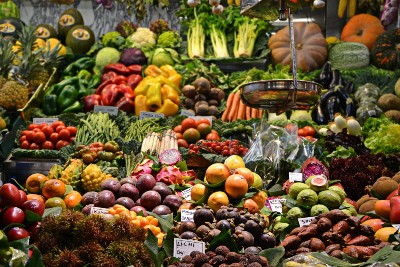
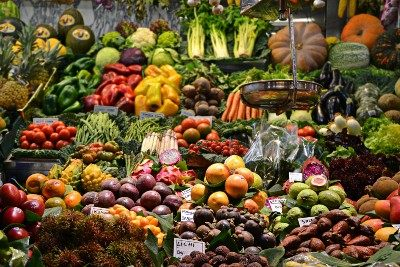
Fix SEO audit issues, optimize images, add structured data and related posts.

diff --git a/_layouts/post.html b/_layouts/post.html
@@ -3,6 +3,18 @@ layout: default
 ---
 
 <article class="post">
+  <script type="application/ld+json">
+  {
+    "@context": "https://schema.org",
+    "@type": "BreadcrumbList",
+    "itemListElement": [
+      { "@type": "ListItem", "position": 1, "name": "Accueil", "item": "{{ '/' | absolute_url }}" },
+      { "@type": "ListItem", "position": 2, "name": "Articles", "item": "{{ '/articles/' | absolute_url }}" },
+      { "@type": "ListItem", "position": 3, "name": {{ page.title | jsonify }} }
+    ]
+  }
+  </script>
+
   <header class="post-header">
     <div class="container">
       <h1>{{ page.title }}</h1>
@@ -25,12 +37,32 @@ layout: default
     <div class="container">
       <div class="post-cta" style="position: relative;">
         <div class="cactus-deco" style="position: absolute; right: 1rem; top: -20px; opacity: 0.6;">
-          <img src="/assets/images/cactus{{ page.date | date: '%d' | modulo: 8 | plus: 1 }}.png" alt="" style="width: 70px;">
+          <img src="/assets/images/cactus{{ page.date | date: '%d' | modulo: 8 | plus: 1 }}.png" alt="Cactus décoratif" style="width: 70px;" loading="lazy">
         </div>
         <h3>Vous avez des questions?</h3>
         <p>Prenez rendez-vous pour une consultation personnalisée.</p>
         <a href="/reservation-en-ligne/" class="btn btn-primary">Prendre rendez-vous</a>
       </div>
+
+      {% assign related_posts = site.posts | where_exp: "p", "p.url != page.url" %}
+      {% if related_posts.size > 0 %}
+      <div class="related-posts">
+        <h2>À lire aussi</h2>
+        <div class="blog-grid">
+          {% for p in related_posts limit: 3 %}
+          <article class="blog-card">
+            <a href="{{ p.url }}">
+              <div class="blog-card-content">
+                <time class="blog-card-date">{% include date-fr.html date=p.date %}</time>
+                <h3 class="blog-card-title">{{ p.title }}</h3>
+                <p class="blog-card-excerpt">{{ p.excerpt | strip_html | truncate: 120 }}</p>
+              </div>
+            </a>
+          </article>
+          {% endfor %}
+        </div>
+      </div>
+      {% endif %}
 
       <nav class="post-nav">
         {% if page.previous.url %}

diff --git a/les-bienfaits-de-lacupuncture.html b/les-bienfaits-de-lacupuncture.html
@@ -2,7 +2,7 @@
 layout: default
 title: Les bienfaits de l'acupuncture
 image: /assets/images/logo_sun.png
-last_modified_at: 2026-03-04
+last_modified_at: 2026-07-16
 description: Découvrez les nombreuses conditions que l'acupuncture peut traiter - douleurs, stress, allergies, troubles digestifs, problèmes de peau, et plus encore.
 permalink: /les-bienfaits-de-lacupuncture/
 redirect_from:
@@ -15,10 +15,10 @@ redirect_from:
       <div class="page-header-text">
         <h1>Les bienfaits de l'acupuncture</h1>
         <p class="subtitle">Une médecine préventive, thérapeutique et globale</p>
-        <img src="/assets/images/cactus4.png" alt="" class="page-header-cactus-mobile">
+        <img src="/assets/images/cactus4.png" alt="Cactus décoratif" class="page-header-cactus-mobile" width="249" height="348">
       </div>
       <div class="page-header-visual">
-        <img src="/assets/images/cactus4.png" alt="">
+        <img src="/assets/images/cactus4.png" alt="Cactus décoratif" width="249" height="348">
       </div>
     </div>
   </div>
@@ -169,7 +169,7 @@ redirect_from:
           <p>Les traitements stimulent la circulation du Qi (énergie vitale) à travers les méridiens du corps à l'aide de fines aiguilles stériles à usage unique.</p>
         </div>
         <div class="text-center">
-          <img src="/assets/images/cactus5.png" alt="" style="max-width: 150px; opacity: 0.9; margin: 0 auto;">
+          <img src="/assets/images/cactus5.png" alt="Cactus décoratif" style="max-width: 150px; opacity: 0.9; margin: 0 auto;" width="284" height="380" loading="lazy">
         </div>
       </div>
     </div>

diff --git a/votre-acupuncteure.html b/votre-acupuncteure.html
@@ -1,10 +1,22 @@
 ---
 layout: default
-title: Votre acupuncteure - Janie Couture, Ac.
+title: Votre acupuncteure
 image: /assets/images/janie-couture.jpg
-last_modified_at: 2026-03-04
-description: Janie Couture, acupuncteure membre de l'Ordre des acupuncteurs du Québec. Formation continue et expertise en douleurs musculosquelettiques et troubles internes.
+last_modified_at: 2026-07-16
+description: Janie Couture, acupuncteure membre de l'Ordre des acupuncteurs du Québec. Expertise en douleurs musculosquelettiques et troubles internes.
 permalink: /votre-acupuncteure/
+schema:
+  "@context": https://schema.org
+  "@type": Person
+  name: Janie Couture
+  jobTitle: Acupuncteure
+  url: https://acujanie.com/votre-acupuncteure/
+  image: https://acujanie.com/assets/images/janie-couture.jpg
+  worksFor:
+    "@id": https://acujanie.com/#business
+  memberOf:
+    "@type": Organization
+    name: Ordre des acupuncteurs du Québec
 ---
 
 <header class="page-header">
@@ -13,10 +25,10 @@ permalink: /votre-acupuncteure/
       <div class="page-header-text">
         <h1>Votre acupuncteure</h1>
         <p class="subtitle">Janie Couture, Ac.</p>
-        <img src="/assets/images/cactus8.png" alt="" class="page-header-cactus-mobile">
+        <img src="/assets/images/cactus8.png" alt="Cactus décoratif" class="page-header-cactus-mobile" width="258" height="401">
       </div>
       <div class="page-header-visual">
-        <img src="/assets/images/cactus8.png" alt="">
+        <img src="/assets/images/cactus8.png" alt="Cactus décoratif" width="258" height="401">
       </div>
     </div>
   </div>

diff --git a/index.html b/index.html
@@ -2,7 +2,7 @@
 layout: default
 title: Clinique d'acupuncture à Québec
 image: /assets/images/logo_sun.png
-last_modified_at: 2026-03-04
+last_modified_at: 2026-07-16
 description: Clinique d'acupuncture à Québec, Charlesbourg-Beauport. Traitements pour douleurs, stress, allergies, fertilité, grossesse et plus. Janie Couture, Ac.
 ---
 
@@ -16,10 +16,10 @@ description: Clinique d'acupuncture à Québec, Charlesbourg-Beauport. Traitemen
           <a href="/reservation-en-ligne/" class="btn btn-primary">Prendre rendez-vous</a>
           <a href="/les-bienfaits-de-lacupuncture/" class="btn btn-secondary">Découvrir les bienfaits</a>
         </div>
-        <img src="/assets/images/cactus1.png" alt="" class="hero-cactus-mobile">
+        <img src="/assets/images/cactus1.png" alt="Cactus décoratif" class="hero-cactus-mobile" width="247" height="356">
       </div>
       <div class="hero-visual">
-        <img src="/assets/images/cactus1.png" alt="" class="hero-cactus">
+        <img src="/assets/images/cactus1.png" alt="Cactus décoratif" class="hero-cactus" width="247" height="356">
       </div>
     </div>
   </div>
@@ -138,7 +138,7 @@ description: Clinique d'acupuncture à Québec, Charlesbourg-Beauport. Traitemen
     </div>
 
     <div class="cactus-deco cactus-float-right cactus-medium" style="margin-top: -2rem;">
-      <img src="/assets/images/cactus2.png" alt="">
+      <img src="/assets/images/cactus2.png" alt="Cactus décoratif" width="259" height="288" loading="lazy">
     </div>
     <div class="blog-grid">
       {% for post in site.posts limit:3 %}

diff --git a/articles.html b/articles.html
@@ -1,8 +1,8 @@
 ---
 layout: default
-title: Articles sur l'acupuncture et la médecine chinoise
+title: Articles sur l'acupuncture
 image: /assets/images/logo_sun.png
-last_modified_at: 2026-03-04
+last_modified_at: 2026-07-16
 description: Articles et conseils sur l'acupuncture, la médecine traditionnelle chinoise, le bien-être et la santé par Janie Couture, acupuncteure à Québec.
 permalink: /articles/
 redirect_from:
@@ -15,10 +15,10 @@ redirect_from:
       <div class="page-header-text">
         <h1>Articles</h1>
         <p class="subtitle">Conseils et informations sur l'acupuncture et la médecine chinoise</p>
-        <img src="/assets/images/cactus7.png" alt="" class="page-header-cactus-mobile">
+        <img src="/assets/images/cactus7.png" alt="Cactus décoratif" class="page-header-cactus-mobile" width="288" height="359">
       </div>
       <div class="page-header-visual">
-        <img src="/assets/images/cactus7.png" alt="">
+        <img src="/assets/images/cactus7.png" alt="Cactus décoratif" width="288" height="359">
       </div>
     </div>
   </div>

diff --git a/reservation-en-ligne.html b/reservation-en-ligne.html
@@ -2,7 +2,7 @@
 layout: default
 title: Réservation en ligne
 image: /assets/images/logo_sun.png
-last_modified_at: 2026-03-04
+last_modified_at: 2026-07-16
 description: Prenez rendez-vous en ligne avec Janie Couture, acupuncteure à Québec. Réservation simple et rapide pour votre consultation d'acupuncture.
 permalink: /reservation-en-ligne/
 ---
@@ -13,10 +13,10 @@ permalink: /reservation-en-ligne/
       <div class="page-header-text">
         <h1>Réservation en ligne</h1>
         <p class="subtitle">Prenez rendez-vous en quelques clics</p>
-        <img src="/assets/images/cactus8.png" alt="" class="page-header-cactus-mobile">
+        <img src="/assets/images/cactus8.png" alt="Cactus décoratif" class="page-header-cactus-mobile" width="258" height="401">
       </div>
       <div class="page-header-visual">
-        <img src="/assets/images/cactus8.png" alt="">
+        <img src="/assets/images/cactus8.png" alt="Cactus décoratif" width="258" height="401">
       </div>
     </div>
   </div>

diff --git a/contact.html b/contact.html
@@ -2,7 +2,7 @@
 layout: default
 title: Contact
 image: /assets/images/logo_sun.png
-last_modified_at: 2026-03-04
+last_modified_at: 2026-07-16
 description: Contactez la clinique d'acupuncture Janie Couture à Québec. Téléphone, courriel, adresse et heures d'ouverture. Charlesbourg-Beauport.
 permalink: /contact/
 redirect_from:
@@ -15,10 +15,10 @@ redirect_from:
       <div class="page-header-text">
         <h1>Contact</h1>
         <p class="subtitle">Nous sommes là pour répondre à vos questions</p>
-        <img src="/assets/images/cactus6.png" alt="" class="page-header-cactus-mobile">
+        <img src="/assets/images/cactus6.png" alt="Cactus décoratif" class="page-header-cactus-mobile" width="269" height="343">
       </div>
       <div class="page-header-visual">
-        <img src="/assets/images/cactus6.png" alt="">
+        <img src="/assets/images/cactus6.png" alt="Cactus décoratif" width="269" height="343">
       </div>
     </div>
   </div>

diff --git a/_layouts/default.html b/_layouts/default.html
@@ -22,8 +22,8 @@
   <link rel="stylesheet" href="{{ '/assets/css/main.css' | relative_url }}">
 
   <!-- Favicons -->
-  <link rel="icon" type="image/png" href="{{ '/assets/images/logo_sun.png' | relative_url }}">
-  <link rel="apple-touch-icon" href="{{ '/assets/images/logo_sun.png' | relative_url }}">
+  <link rel="icon" type="image/png" href="{{ '/assets/images/logo_sun-small.png' | relative_url }}">
+  <link rel="apple-touch-icon" href="{{ '/assets/images/logo_sun-small.png' | relative_url }}">
 
   {% if page.schema %}
   <script type="application/ld+json">

diff --git a/_includes/header.html b/_includes/header.html
@@ -1,7 +1,7 @@
 <header class="site-header">
   <div class="container">
     <a href="/" class="logo" aria-label="Accueil">
-      <img src="/assets/images/logo_sun.png" alt="Acupuncture Janie Couture" width="50" height="50" class="logo-img">
+      <img src="/assets/images/logo_sun-small.png" alt="Acupuncture Janie Couture" width="50" height="50" class="logo-img">
       <span class="logo-text">
         <span class="logo-title">Acupuncture</span>
         <span class="logo-name">Janie Couture</span>

diff --git a/_includes/footer.html b/_includes/footer.html
@@ -3,7 +3,7 @@
     <div class="container">
       <div class="footer-grid">
         <div class="footer-brand">
-          <img src="/assets/images/logo_sun.png" alt="Acupuncture Janie Couture" width="60" height="60">
+          <img src="/assets/images/logo_sun-small.png" alt="Acupuncture Janie Couture" width="60" height="60">
           <div>
             <strong>Acupuncture Janie Couture</strong>
             <p>Membre de l'Ordre des acupuncteurs du Québec</p>

diff --git a/_sass/_pages.scss b/_sass/_pages.scss
@@ -390,6 +390,15 @@
   }
 }
 
+.related-posts {
+  margin-bottom: $spacing-xl;
+
+  h2 {
+    text-align: center;
+    margin-bottom: $spacing-lg;
+  }
+}
+
 // Blog listing
 .blog-grid {
   display: grid;

diff --git a/_posts/2026-04-01-lacupuncture-et-les-allergies-saisonnieres.md b/_posts/2026-04-01-lacupuncture-et-les-allergies-saisonnieres.md
@@ -1,19 +1,19 @@
 ---
 layout: post
-title: "L'acupuncture et les allergies saisonnières"
+title: "Acupuncture et allergies saisonnières"
 date: 2026-04-01
 author: Janie Couture
-description: "L'acupuncture peut diminuer les symptômes des allergies saisonnières et les prévenir. L'OMS la reconnaît pour traiter les troubles respiratoires comme la rhinite allergique."
-image: /assets/images/fleurs-champ.png
+description: "L'acupuncture peut diminuer les symptômes des allergies saisonnières et les prévenir. L'OMS la reconnaît pour traiter les troubles respiratoires."
+image: /assets/images/fleurs-champ.jpg
 excerpt: "Le nez vous coule comme un érable au printemps et les éternuements ne vous laissent aucun répit? L'acupuncture est là pour vous aider à diminuer les symptômes et à les prévenir!"
-last_modified_at: 2026-04-01
+last_modified_at: 2026-07-16
 ---
 
 Le nez vous coule comme un érable au printemps et les éternuements ne vous laissent aucun répit? Aimeriez-vous enfin trouver du soulagement face à vos allergies saisonnières sans avoir recours aux médicaments? L'acupuncture est là pour vous aider à diminuer les symptômes et à les prévenir!
 
 L'OMS (Organisation mondiale de la Santé) classe les allergies saisonnières, ainsi que l'asthme et la sinusite, parmi les troubles du système respiratoire pouvant être traités efficacement par l'acupuncture.
 
-<img src="/assets/images/fleurs-champ.png" alt="Fleurs des champs au printemps" class="img-left">
+<img src="/assets/images/fleurs-champ.jpg" alt="Fleurs des champs au printemps" class="img-left" width="298" height="201">
 
 Une allergie est une réaction excessive du système immunitaire à une substance étrangère (allergène) qui, normalement, n'entraîne pas de trouble chez la plupart des individus. Les principaux allergènes sont : les pollens, l'herbe à poux, la poussière, les acariens, les poils d'animaux et certains produits chimiques. Les allergies peuvent être saisonnières ou persister toute l'année.
 
@@ -21,7 +21,7 @@ Lors d'une rhinite allergique, la personne peut ressentir les symptômes suivant
 
 <div class="clearfix"></div>
 
-<img src="/assets/images/champ-ble.png" alt="Champ de blé sous un ciel bleu" class="img-right">
+<img src="/assets/images/champ-ble.jpg" alt="Champ de blé sous un ciel bleu" class="img-right" width="280" height="212" loading="lazy">
 
 Tiré d'un article sur les allergies saisonnières de l'Association des acupuncteurs du Québec, le paragraphe suivant met en lien l'acupuncture et ses effets sur les allergies.
 
@@ -29,7 +29,7 @@ Aujourd'hui, la science moderne reconnaît que l'acupuncture agit sur les systè
 
 <div class="clearfix"></div>
 
-<img src="/assets/images/femme-fleurs.png" alt="Femme profitant des fleurs au printemps" class="img-left">
+<img src="/assets/images/femme-fleurs.jpg" alt="Femme profitant des fleurs au printemps" class="img-left" width="297" height="195" loading="lazy">
 
 Le traitement des allergies saisonnières est plus efficace en prévention, soit de 4 à 6 semaines avant l'apparition des symptômes. Toutefois, pendant la saison des allergies, l'acupuncture aide à calmer la réaction exagérée de l'organisme et à soulager les symptômes incommodants. Elle peut également avoir un effet à long terme en atténuant les allergies pour les saisons à venir.
 
